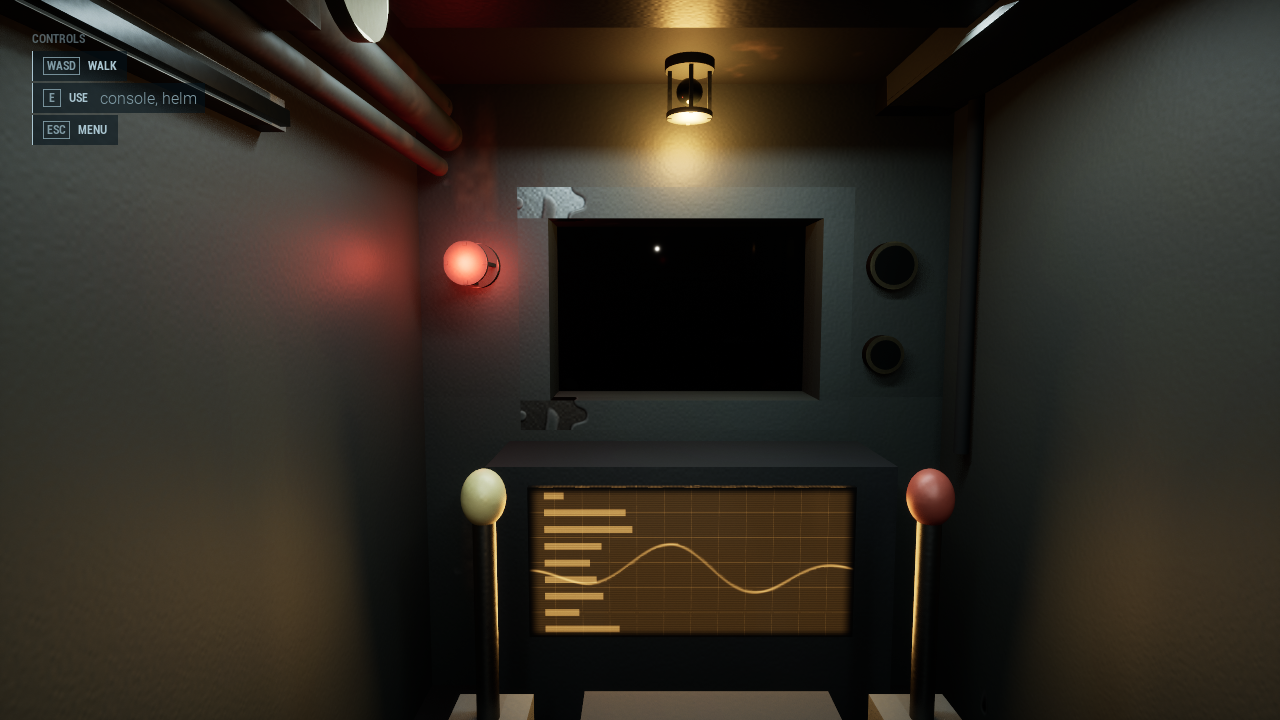
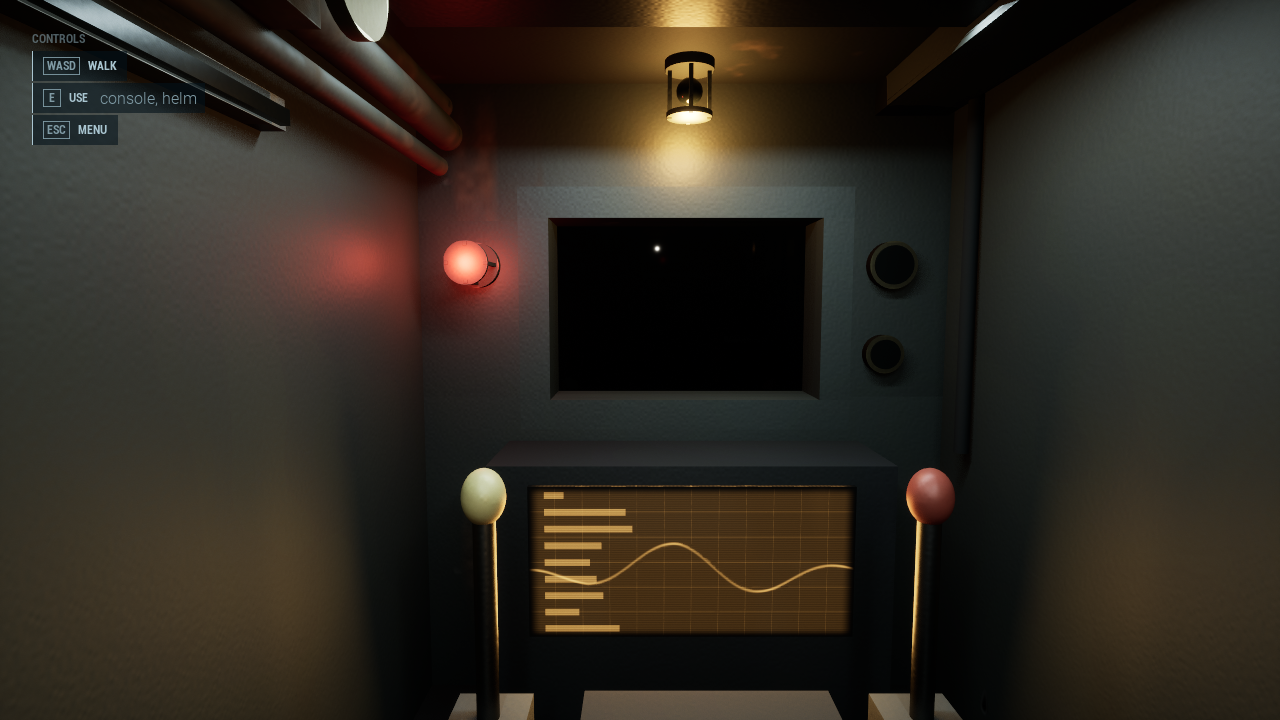
BT-01 inside: no torn patches on the porthole, spawn on the deck, solid lockers, a readable plan
- The two grey-white torn patches at the porthole panel's port corners were bare-steel chips of
  M_WornSteel on the window bezel (wear 0.45 at a chip scale of about 55 cm). The bezel now has
  the machine's wear (0.15); the start and console-helm frames show a clean frame.
- Spawn on the deck: the start and the enter stand put the capsule at Sub.InsideStandHeightM
  (0.82 m = half height plus the walker's 1.9-2.4 cm floor gap) instead of 12 cm over the deck.
- The room's dressing blocks walkers: its instanced meshes are query-only, block Pawn and ignore
  every other channel, so traces, the camera and the sonar are unchanged. New test
  Deep.World.SubRoomStand: no drop at the start, and a walker stops at a locker's face.
- Plan view: with the roof off (Deep.Room.Roof 0) the room's exposure volume and its look
  (ADeepSubRoom::IsInRoomLook, used by the environment for fog and snow) reach
  Sub.InsidePlanViewHeightM (5 m) over the deck, so the frame from above reads at the room's
  fixed exposure.

Frames re-taken: devlog/media/2026-11-17-inside-{start,console-helm,plan}.png.

diff --git a/deep/Source/Deep/Private/Tests/DeepReturnTests.cpp b/deep/Source/Deep/Private/Tests/DeepReturnTests.cpp
@@ -649,4 +649,65 @@ bool FDeepSubRoomLayoutTest::RunTest(const FString& Parameters)
 	return true;
 }
 
+IMPLEMENT_SIMPLE_AUTOMATION_TEST(FDeepSubRoomStandTest, "Deep.World.SubRoomStand", DEEP_RETURN_TEST_FLAGS)
+bool FDeepSubRoomStandTest::RunTest(const FString& Parameters)
+{
+	using namespace DeepReturnTest;
+	// The start puts the diver on the deck, not over it (no drop on spawn), and a walker pushing into a locker stops
+	// at its face: the dressing is solid for walkers.
+	const FDeepSubTuning& T = UDeepTuningSettings::Get().Sub;
+	const double StandCm = T.InsideStandHeightM * UDeepRules::CmPerM - GetDefault<ADeepDiver>()->GetCapsuleComponent()->GetScaledCapsuleHalfHeight();
+	TestTrue(FString::Printf(TEXT("The stand height leaves the walker's floor gap (%.1f cm, the engine keeps %.1f-%.1f)"), StandCm,
+		UCharacterMovementComponent::MIN_FLOOR_DIST, UCharacterMovementComponent::MAX_FLOOR_DIST),
+		StandCm >= UCharacterMovementComponent::MIN_FLOOR_DIST && StandCm <= UCharacterMovementComponent::MAX_FLOOR_DIST);
+
+	FReturnWorld W;
+	UTEST_TRUE(TEXT("World, sub, diver, run"), W.Valid());
+	UTEST_EQUAL(TEXT("Aboard at the start"), W.Run->GetState(), EDeepRunState::Aboard);
+	ADeepSubRoom* Room = DeepArena::EnsureRoom(W.World);
+	UTEST_NOT_NULL(TEXT("Room"), Room);
+	AAIController* Brain = W.World->SpawnActor<AAIController>();
+	UTEST_NOT_NULL(TEXT("Controller"), Brain);
+	Brain->Possess(W.Diver);
+	UCharacterMovementComponent* Movement = W.Diver->GetCharacterMovement();
+	constexpr float Dt = 1.f / 30.f;
+	auto Step = [&](float Seconds)
+	{
+		for (float S = 0.f; S < Seconds; S += Dt)
+		{
+			W.Diver->Tick(Dt);
+			Movement->TickComponent(Dt, LEVELTICK_All, &Movement->PrimaryComponentTick);
+			W.Run->StepRun(Dt);
+		}
+	};
+
+	const double StartZ = W.Diver->GetActorLocation().Z;
+	Step(0.5f);
+	const double Drop = StartZ - W.Diver->GetActorLocation().Z;
+	TestTrue(FString::Printf(TEXT("Stood still at the start: moved %.2f cm down (at most 1)"), Drop), FMath::Abs(Drop) <= 1.0);
+	TestTrue(TEXT("Walking on the deck"), Movement->IsMovingOnGround());
+
+	// The starboard locker on the aft wall (World/DeepRoomDress): its body is the tall cube there.
+	const FBox In = DeepRoomLayout::Inside(T);
+	const TArray<FDeepRoomPiece> Pieces = DeepRoomDress::Pieces(T);
+	const FDeepRoomPiece* Locker = Pieces.FindByPredicate([&](const FDeepRoomPiece& P)
+	{
+		return P.Size.Z >= 150.0 && P.Centre.X < In.Min.X + 30.0 && P.Centre.Y > 40.0;
+	});
+	UTEST_NOT_NULL(TEXT("A locker on the aft wall"), Locker);
+	const double FaceX = DeepRoomDress::PieceBox(*Locker).Max.X;
+	const double WalkerRadius = W.Diver->GetCapsuleComponent()->GetScaledCapsuleRadius();
+	const FVector From(FaceX + WalkerRadius + 60.0, Locker->Centre.Y, DeepRoomLayout::DeckTopCm(T) + T.InsideStandHeightM * UDeepRules::CmPerM);
+	W.Diver->TeleportDiver(Room->GetActorTransform().TransformPosition(From));
+	Brain->SetControlRotation(Room->GetActorTransform().TransformRotation(FRotator(0.f, 180.f, 0.f).Quaternion()).Rotator());
+	W.Diver->SetMoveInput(FVector2D(0.f, 1.f));
+	Step(1.5f);
+	W.Diver->SetMoveInput(FVector2D::ZeroVector);
+	const FVector At = Room->GetActorTransform().InverseTransformPosition(W.Diver->GetActorLocation());
+	TestTrue(FString::Printf(TEXT("Walked from x %.0f into the locker (face at x %.0f): stopped at x %.1f, at most 1 cm into it"), From.X, FaceX, At.X),
+		At.X >= FaceX + WalkerRadius - 1.0);
+	TestTrue(FString::Printf(TEXT("And walked up to it (stopped at x %.1f)"), At.X), At.X <= From.X - 30.0);
+	return true;
+}
+
 #endif

diff --git a/deep/Source/Deep/World/DeepSubRoom.cpp b/deep/Source/Deep/World/DeepSubRoom.cpp
@@ -308,8 +308,7 @@ void ADeepSubRoom::LayOut()
 		Place(WindowBezel[3], FVector(BezelX, PortHalfW + BezelW * 0.5, PortZ), FVector(8.0, BezelW, 2.0 * PortHalfH));
 	}
 
-	RoomVolume->SetRelativeLocation(FVector(MidX, 0.0, 0.0));
-	RoomVolume->SetBoxExtent(FVector(Len * 0.5, W, H * 0.5));
+	FitRoomVolume(Ceil);
 	RoomLight->SetRelativeLocation(FVector(60.0, 0.0, Ceil - 25.0));
 	PortholeLight->SetRelativeLocation(FVector(Fore + Th + BackdropOutCm * 0.5, 0.0, PortZ));
 }
@@ -351,7 +350,9 @@ void ADeepSubRoom::ApplyLook()
 	SubScreen(ConsoleScreen, Look.ScreenGlow);
 	SubScreen(HelmScreen, Look.ScreenGlow);
 	FSubSteel Bezel = P.Wall;
-	Bezel.Wear = 0.45f;
+	// Only the machine's light wear: at the wall's chip scale (about 55 cm) a heavier wear tore bare grey-white
+	// blotches into the porthole frame's corners.
+	Bezel.Wear = P.Machine.Wear;
 	for (UStaticMeshComponent* Shape : WindowBezel)
 	{
 		SubSteel(Shape, Bezel);
@@ -492,7 +493,7 @@ FTransform ADeepSubRoom::GetRoomStartTransform() const
 {
 	const FDeepSubTuning& T = UDeepTuningSettings::Get().Sub;
 	const FVector2D At = T.RoomStartM * UDeepRules::CmPerM;
-	const FVector Start = Local(At.X, At.Y, DeepRoomLayout::DeckTopCm(T) + 92.0);
+	const FVector Start = Local(At.X, At.Y, DeepRoomLayout::DeckTopCm(T) + T.InsideStandHeightM * UDeepRules::CmPerM);
 	return FTransform(FRotator(0.f, GetActorRotation().Yaw, 0.f), Start);
 }
 
@@ -500,7 +501,7 @@ FVector ADeepSubRoom::GetEnterStandLocation() const
 {
 	const FDeepSubTuning& T = UDeepTuningSettings::Get().Sub;
 	const FVector2D At = T.EnterStandM * UDeepRules::CmPerM;
-	return Local(At.X, At.Y, DeepRoomLayout::DeckTopCm(T) + 92.0);
+	return Local(At.X, At.Y, DeepRoomLayout::DeckTopCm(T) + T.InsideStandHeightM * UDeepRules::CmPerM);
 }
 
 FVector ADeepSubRoom::GetHatchLocation() const
@@ -531,6 +532,13 @@ bool ADeepSubRoom::IsInRoom(const FVector& WorldCm, double MarginCm) const
 	const FBox In = DeepRoomLayout::Inside(UDeepTuningSettings::Get().Sub);
 	const FVector P = GetActorTransform().InverseTransformPosition(WorldCm);
 	return P.X >= In.Min.X && P.X <= In.Max.X && P.Y >= In.Min.Y && P.Y <= In.Max.Y && P.Z >= In.Min.Z - MarginCm && P.Z <= In.Max.Z;
+}
+
+bool ADeepSubRoom::IsInRoomLook(const FVector& WorldCm, double MarginCm) const
+{
+	const FBox In = DeepRoomLayout::Inside(UDeepTuningSettings::Get().Sub);
+	const FVector P = GetActorTransform().InverseTransformPosition(WorldCm);
+	return IsInRoom(WorldCm, MarginCm) || (P.X >= In.Min.X && P.X <= In.Max.X && P.Y >= In.Min.Y && P.Y <= In.Max.Y && P.Z >= In.Max.Z && P.Z <= LookTopCm);
 }
 
 bool ADeepSubRoom::IsWithinUseRange(const FVector& WorldCm, const FVector& PointCm) const
@@ -568,4 +576,15 @@ void ADeepSubRoom::SetRoofVisible(bool bVisible)
 	{
 		Shape->SetVisibility(bVisible);
 	}
+	// Roof off, the room's own exposure reaches up to the plan view, so a look down from above reads as the room does.
+	const FDeepSubTuning& T = UDeepTuningSettings::Get().Sub;
+	FitRoomVolume(bVisible ? DeepRoomLayout::Inside(T).Max.Z : DeepRoomLayout::DeckTopCm(T) + T.InsidePlanViewHeightM * UDeepRules::CmPerM);
+}
+
+void ADeepSubRoom::FitRoomVolume(double TopCm)
+{
+	const FBox In = DeepRoomLayout::Inside(UDeepTuningSettings::Get().Sub);
+	LookTopCm = TopCm;
+	RoomVolume->SetRelativeLocation(FVector(In.GetCenter().X, 0.0, (In.Min.Z + TopCm) * 0.5));
+	RoomVolume->SetBoxExtent(FVector(In.GetExtent().X, In.Max.Y, (TopCm - In.Min.Z) * 0.5));
 }

diff --git a/deep/Source/Deep/World/DeepSubRoom.h b/deep/Source/Deep/World/DeepSubRoom.h
@@ -57,6 +57,9 @@ public:
 	/** Inside the room's box (world cm), above the deck's top minus Margin. */
 	bool IsInRoom(const FVector& WorldCm, double MarginCm = 0.0) const;
 
+	/** Whether a view here gets the room's look (its exposure, no water): inside, or with the roof off up to the plan view. */
+	bool IsInRoomLook(const FVector& WorldCm, double MarginCm = 0.0) const;
+
 	/** Horizontal distance to a deck point is within the use range. */
 	bool IsWithinUseRange(const FVector& WorldCm, const FVector& PointCm) const;
 
@@ -79,6 +82,8 @@ protected:
 
 	/** Places and sizes every shape from the tuning. */
 	void LayOut();
+	/** Fits the room's exposure volume to the inside, up to this height (room-local cm): the ceiling, or the plan view with the roof off. */
+	void FitRoomVolume(double TopCm);
 	/** Surfaces, lights and screens (FDeepLookTuning, Look|Room). */
 	void ApplyLook();
 
@@ -176,6 +181,9 @@ protected:
 	/** The room's box: inside it the room keeps its own exposure. */
 	UPROPERTY(VisibleAnywhere, Category = "Deep")
 	TObjectPtr<UBoxComponent> RoomVolume;
+
+	/** The top of the room's look (room-local cm): the ceiling, or the plan view's height with the roof off (FitRoomVolume). */
+	double LookTopCm = 0.0;
 
 	UPROPERTY(VisibleAnywhere, Category = "Deep")
 	TObjectPtr<UPostProcessComponent> RoomGrade;

diff --git a/deep/Source/Deep/World/DeepEnvironment.cpp b/deep/Source/Deep/World/DeepEnvironment.cpp
@@ -240,7 +240,7 @@ void ADeepEnvironment::StepRoomLook(float DeltaSeconds, const FVector& ViewCm)
 {
 	const UDeepTuningSettings& Tuning = UDeepTuningSettings::Get();
 	const ADeepSubRoom* Room = DeepArena::FindRoom(GetWorld());
-	const bool bInRoom = Room && Room->IsInRoom(ViewCm, 100.0);
+	const bool bInRoom = Room && Room->IsInRoomLook(ViewCm, 100.0);
 	const float Ease = FMath::Max(0.01f, Tuning.MovingSub.RoomLookEaseSeconds);
 	Room01 = FMath::FInterpConstantTo(Room01, bInRoom ? 1.f : 0.f, FMath::Max(0.f, DeltaSeconds), 1.f / Ease);
 	const float DepthM = LookDepthM();
@@ -520,7 +520,7 @@ void ADeepEnvironment::UpdateSnow(float DeltaSeconds, const FDeepLookTuning& Loo
 	const FQuat Upright = FQuat::Identity;
 	// In the room set (far above the dive, World/DeepSubRoom) there is no water: no specks at all.
 	const ADeepSubRoom* Room = DeepArena::FindRoom(GetWorld());
-	const bool bInRoom = Room01 > 0.f || (Room && Room->IsInRoom(View, 100.0));
+	const bool bInRoom = Room01 > 0.f || (Room && Room->IsInRoomLook(View, 100.0));
 
 	for (int32 i = 0; i < SnowHome.Num(); ++i)
 	{

diff --git a/deep/Source/Deep/Sim/DeepTuningTypes.h b/deep/Source/Deep/Sim/DeepTuningTypes.h
@@ -1485,6 +1485,21 @@ struct FDeepSubTuning
 	UPROPERTY(EditAnywhere, BlueprintReadWrite, Category = "Sub|Inside")
 	float InsidePortholeZM = 1.35f;
 
+	/**
+	 * Where a diver is put aboard (the start, a respawn, back in through the airlock): the capsule centre this high over
+	 * the deck. The diver's half height (0.8 m) plus the walker's floor gap (the engine keeps 1.9-2.4 cm), so the diver
+	 * stands on the deck at once instead of dropping onto it (Deep.World.SubRoomLayout).
+	 */
+	UPROPERTY(EditAnywhere, BlueprintReadWrite, Category = "Sub|Inside")
+	float InsideStandHeightM = 0.82f;
+
+	/**
+	 * With the roof off (`Deep.Room.Roof 0`), the room's look (its fixed exposure, no water) reaches this high over the deck, so a plan
+	 * view from a diver stood on the ceiling (eye about 3.6 m over the deck) reads at the room's exposure.
+	 */
+	UPROPERTY(EditAnywhere, BlueprintReadWrite, Category = "Sub|Inside")
+	float InsidePlanViewHeightM = 5.f;
+
 	UPROPERTY(EditAnywhere, BlueprintReadWrite, Category = "Sub|Room")
 	float RoomLightIntensity = 6000.f;
 

diff --git a/deep/Source/Deep/World/DeepRoomDress.cpp b/deep/Source/Deep/World/DeepRoomDress.cpp
@@ -415,7 +415,12 @@ void DeepRoomDress::Create(AActor* Owner, USceneComponent* Parent, TArray<TObjec
 			Ism->SetupAttachment(Parent);
 			Ism->SetStaticMesh(DeepShapes::LoadMesh(MeshPaths[Mesh]));
 			Ism->SetMobility(EComponentMobility::Movable);
-			Ism->SetCollisionEnabled(ECollisionEnabled::NoCollision);
+			// Solid for walkers only: a diver walks round a locker, not into it, while traces, the camera and the
+			// sonar pass the dressing as before.
+			Ism->SetCollisionEnabled(ECollisionEnabled::QueryOnly);
+			Ism->SetCollisionObjectType(ECC_WorldStatic);
+			Ism->SetCollisionResponseToAllChannels(ECR_Ignore);
+			Ism->SetCollisionResponseToChannel(ECC_Pawn, ECR_Block);
 			Ism->SetGenerateOverlapEvents(false);
 			Ism->SetCanEverAffectNavigation(false);
 			// Small pieces stay out of distance fields; the big flat ones still cast shadows from the practicals.

diff --git a/deep/Source/Deep/ARCHITECTURE.md b/deep/Source/Deep/ARCHITECTURE.md
@@ -8,7 +8,7 @@ Folders (include from the module root, e.g. `#include "Sim/DeepRules.h"`):
 - `Story/` `UDeepEventBus` (`Broadcast(name, payload)`; names in `DeepEvent::` = `event` column of `Content/Data/CaptainLines.csv`), `UDeepCaptain` (picks a line, subtitle queue by urgency). Radio Captain (D-040, `Deep.Captain.Radio 0|1`): `DeepCaptainPacing` = pure scene (title/aboard/water/settlement) + danger (calm/tense/scared) -> which urgencies show in the water; the CSV `tone` column picks the line for the danger (Captain|Radio tuning; `Deep.Story.Captain*` tests).
 - `Monster/` the sea serpent (see `Monster/README.md`): pure rules, settings, `UDeepMonsterBrain` (spawns at stop >= 2), `ADeepSerpent` (procedural tube body on a Verlet chain the head drags, `UDeepMonsterRules::StepChain` (drag heavier across the body than along it, no stroke: plain rope) + `ChainPoint` (Catmull-Rom centreline) + `Body.Chain`, head socket, eyeshine, markings, its own glow in a bite (`Deep.Monster.Glow 0|1`); the Dragon Cave dragon as a clipped mesh head when the pack is installed, `Deep.Monster.MeshHead 0` = code head; materials in `Content/Deep/Serpent`, rebuilt by its .py files), `ADeepSerpentController` (keeps to the relic's shaft while its diver is in it: `UDeepMonsterRules::WellAimPoint`; elsewhere every aim and the path stay `CaveWallClearM` + `CaveBodyReachM` inside the cavern: `ADeepCavern::KeepClearCm`). Lane G: it hears bus events (`sonar_ping`, `harpoon_fired`, `hull_hit`) and the helm throttle (brain, `NoiseForEvent`, `HelmNoise`), answers with a call and turns to the sound; state `Taunt` (edge of the light, brush past, withdraw, `TauntPath`, never bites) before a bite; its voice (drone, clicks, calls `serpent_*` built-ins) plays spatialised at the head on every machine from `MoodState`/`CallSerial`; `Deep.Monster.Taunt [n]`, `Deep.Monster.Call [kind]`. It only hunts divers who can swim; aboard is safe.
 - `Harpoon/` one shot per dive (LMB, mapped by the component itself; water only). `UDeepHarpoonRules` pure (range, reel step, bolt step, sphere hit, repair fee, recoil `RecoilVelocityMps`/`RecoilTravelM`); `UDeepHarpoonSettings` (DEEP Harpoon); `UDeepHarpoonComponent` on the diver (server: bolt flight, latch, reel; on the sub it reels the diver up into the hatch, where the run brings it aboard; reloads on dive_start/respawn/descend; a shot shoves the diver straight back (`StepKick`: swept `SafeMoveUpdatedComponent` after the swim move, server + owning client, ends on a reel, release, aboard, death or winch; DEEP Harpoon > Recoil); `harpoon_*` events); `ADeepHarpoonBolt`; `DeepHarpoonHUD::Draw`. Sub hits raise `HullDamage` and `HullRepairsOwed` (billed once in `Bank`).
-- `World/` `ADeepSubmarine` = the hull in the water, the fixed point (D-022: box hull of cubes round a hatch over the anchor, rim, red cover when locked, `HelmCamera`; `GetHatchLocation`, `GetSolidBoundsLocal` (box of the colliding cubes = the visible hull), `IsInHatchColumn`, `SetHatchOpen`). `ADeepSubRoom` = the room as a fixed set at `Sub.RoomSetLocationM` (700 m above, not replicated, one per machine via `DeepArena::EnsureRoom`/`FindRoom`, never iterate it as a sub): its own inside fitted to BT-01's cabin (`DeepRoomLayout` = pure boxes from `Sub.Inside*` and the stations: inside, deck, round hatch, console, seat, panel, levers, porthole; the hull keeps the `Room*` box): deck with the shut round hatch and its valve wheel by the console, the helm at the bow, levers, dress, strips, a porthole; `Deep.Room.Roof 0|1` hides the ceiling for a plan view; `GetRoomStartTransform`, `GetEnterStandLocation`, `GetValveLocation`, `GetConsoleLocation`, `GetHelmLocation`, `IsInRoom`, `IsWithinUseRange`, `GetStationInReach` (E acts on the nearest station in reach; the run component and HUD ask it). `DeepSubParts.h` = shapes and paints both share, and the hull's window. `DeepHull::Parts` = the sub's outside dress (frame, foam, tanks, skids, thrusters, arm, hatch well, tether bridle; ~142 basic shapes, visual only, within 60 cm of the colliding box, `Deep.World.SubHullDress`); the trench also shows through the window to a player in the room while the sub moves (`TrenchShows`). `ADeepArenaRoot` = what everything outside hangs from. `ADeepEnvironment` = the water look: each tick blends `FDeepLookTuning::Presets` (100/300/500 m, style guide 5) by `SubDepthM` into downlight, height + volumetric fog, locked exposure and grade; `ApplyFogQuality` sets the r.VolumetricFog.* CVars once from Look (history weight 0.7 so the lamp beam does not trail); marine snow (ISM specks wrapped round the view, hung from the root so they stream past when driving); salvage glint scale; `Deep.RayTracing 0|1`. The sub adds the belly flood, bow lights, blinking markers and the hatch pool (`/Game/Deep/Look/M_HatchWater`); `SetOutsideLights` dims its outside lights by depth. `TickHelmLook`: while the helm is manned the bow lights become floods (Look|Helm), a code-built trench wall (`Trench`, `TrenchReliefM`, ledge every 10 m) slides past the helm camera by `SubDepthM`, sway scales with `GetDriveSpeedMps`, a settle on parking, and the stop's bed and salvage hide while the sub is below the loaded stop; the snow streaks by that speed in the helm view. `ADeepSubRoom::ApplyLook` dresses the room: worn steel on every cube (`DeepShapes::Steel`, `/Game/Deep/Room/M_WornSteel`, any mesh), amber screens, glass in the helm window, cool strips (two along the room, one across the nose: `Deep.Room.NoseStrip 0|1`), amber practicals, red at the hatch, and its own exposure inside `RoomVolume`. Room materials: `Content/Deep/Room/build_room_materials.py`. `ADeepAbyssFloor` = the sea bed: a procedural silt mesh round the anchor through every salvage spot's resting point (`SeabedBelowM`, pure), the relic in a sinkhole; `ADeepCavern` = rock walls and a roof round each stop (one procedural shell per stop, star-shaped round the anchor so relief only pushes rock out, 14 m roof opening over the sub for the shaft, `MakeMesh`/`SurfaceDistanceM`/`RoomM`/`KeepClearM` pure, blocks Visibility + Pawn only while shown, hides with the bed; `cave_` dressing rows hide with it); material by path (`Look.SeabedMaterial`, default `M_Silt`). Look materials are built by `Content/Deep/Look/build_look_materials.py`. `DeepArena::EnsureArena` spawns what the map lacks (sub, root, salvage ring, relic, floor, environment, dressing); `ApplySubDepth` moves the root by (SubDepthM - stop depth), loads the nearest stop's arena, opens the hatch only when parked. `ADeepDressing` = pack rock and ruin from `Content/Data/Dressing.csv` (place/scatter rows; ref bed/anchor/depth/wall; one HISM per mesh, no collision; pieces near a diver's path (hatch to each salvage spot, the shaft) are dropped unless low in the silt; re-placed when the loaded stop changes; skin `/Game/Deep/Dressing/M_DressSilt` gets each slot's pack textures via `DeepDressing::Skin`); its cook hook adds every asset the CSV and `PackAssets.csv` name. `Deep.Dressing.Sheet` (contact sheet), `Deep.Dressing.Hide` (frame-time A/B). `ADeepSalvage`: scrap shows as a pipe, a bent plate or a tank (`ScrapParts`, look only); the hidden box is the grab collider. `DeepShapes` = basic shapes + tint. `DeepRoomDress` = the sub room's dressing as a pure, tested part list (`Pieces`, `Lights`: ribs, pipes, gauges, lockers, ladder, caged lights) kept out of the helm and hatch zones, drawn as instanced meshes with no collision plus a few source lights; `ADeepSubRoom` calls `Create` in its constructor and `Skin` in `ApplyLook`; tuning `RoomDress`; tests `Deep.World.RoomDress.*`; cheat `Deep.Room.Dress 0|1`.
+- `World/` `ADeepSubmarine` = the hull in the water, the fixed point (D-022: box hull of cubes round a hatch over the anchor, rim, red cover when locked, `HelmCamera`; `GetHatchLocation`, `GetSolidBoundsLocal` (box of the colliding cubes = the visible hull), `IsInHatchColumn`, `SetHatchOpen`). `ADeepSubRoom` = the room as a fixed set at `Sub.RoomSetLocationM` (700 m above, not replicated, one per machine via `DeepArena::EnsureRoom`/`FindRoom`, never iterate it as a sub): its own inside fitted to BT-01's cabin (`DeepRoomLayout` = pure boxes from `Sub.Inside*` and the stations: inside, deck, round hatch, console, seat, panel, levers, porthole; the hull keeps the `Room*` box): deck with the shut round hatch and its valve wheel by the console, the helm at the bow, levers, dress, strips, a porthole; `Deep.Room.Roof 0|1` hides the ceiling and lifts the room's exposure for a plan view; `GetRoomStartTransform`, `GetEnterStandLocation`, `GetValveLocation`, `GetConsoleLocation`, `GetHelmLocation`, `IsInRoom`, `IsWithinUseRange`, `GetStationInReach` (E acts on the nearest station in reach; the run component and HUD ask it). `DeepSubParts.h` = shapes and paints both share, and the hull's window. `DeepHull::Parts` = the sub's outside dress (frame, foam, tanks, skids, thrusters, arm, hatch well, tether bridle; ~142 basic shapes, visual only, within 60 cm of the colliding box, `Deep.World.SubHullDress`); the trench also shows through the window to a player in the room while the sub moves (`TrenchShows`). `ADeepArenaRoot` = what everything outside hangs from. `ADeepEnvironment` = the water look: each tick blends `FDeepLookTuning::Presets` (100/300/500 m, style guide 5) by `SubDepthM` into downlight, height + volumetric fog, locked exposure and grade; `ApplyFogQuality` sets the r.VolumetricFog.* CVars once from Look (history weight 0.7 so the lamp beam does not trail); marine snow (ISM specks wrapped round the view, hung from the root so they stream past when driving); salvage glint scale; `Deep.RayTracing 0|1`. The sub adds the belly flood, bow lights, blinking markers and the hatch pool (`/Game/Deep/Look/M_HatchWater`); `SetOutsideLights` dims its outside lights by depth. `TickHelmLook`: while the helm is manned the bow lights become floods (Look|Helm), a code-built trench wall (`Trench`, `TrenchReliefM`, ledge every 10 m) slides past the helm camera by `SubDepthM`, sway scales with `GetDriveSpeedMps`, a settle on parking, and the stop's bed and salvage hide while the sub is below the loaded stop; the snow streaks by that speed in the helm view. `ADeepSubRoom::ApplyLook` dresses the room: worn steel on every cube (`DeepShapes::Steel`, `/Game/Deep/Room/M_WornSteel`, any mesh), amber screens, glass in the helm window, cool strips (two along the room, one across the nose: `Deep.Room.NoseStrip 0|1`), amber practicals, red at the hatch, and its own exposure inside `RoomVolume`. Room materials: `Content/Deep/Room/build_room_materials.py`. `ADeepAbyssFloor` = the sea bed: a procedural silt mesh round the anchor through every salvage spot's resting point (`SeabedBelowM`, pure), the relic in a sinkhole; `ADeepCavern` = rock walls and a roof round each stop (one procedural shell per stop, star-shaped round the anchor so relief only pushes rock out, 14 m roof opening over the sub for the shaft, `MakeMesh`/`SurfaceDistanceM`/`RoomM`/`KeepClearM` pure, blocks Visibility + Pawn only while shown, hides with the bed; `cave_` dressing rows hide with it); material by path (`Look.SeabedMaterial`, default `M_Silt`). Look materials are built by `Content/Deep/Look/build_look_materials.py`. `DeepArena::EnsureArena` spawns what the map lacks (sub, root, salvage ring, relic, floor, environment, dressing); `ApplySubDepth` moves the root by (SubDepthM - stop depth), loads the nearest stop's arena, opens the hatch only when parked. `ADeepDressing` = pack rock and ruin from `Content/Data/Dressing.csv` (place/scatter rows; ref bed/anchor/depth/wall; one HISM per mesh, no collision; pieces near a diver's path (hatch to each salvage spot, the shaft) are dropped unless low in the silt; re-placed when the loaded stop changes; skin `/Game/Deep/Dressing/M_DressSilt` gets each slot's pack textures via `DeepDressing::Skin`); its cook hook adds every asset the CSV and `PackAssets.csv` name. `Deep.Dressing.Sheet` (contact sheet), `Deep.Dressing.Hide` (frame-time A/B). `ADeepSalvage`: scrap shows as a pipe, a bent plate or a tank (`ScrapParts`, look only); the hidden box is the grab collider. `DeepShapes` = basic shapes + tint. `DeepRoomDress` = the sub room's dressing as a pure, tested part list (`Pieces`, `Lights`: ribs, pipes, gauges, lockers, ladder, caged lights) kept out of the helm and hatch zones, drawn as instanced meshes that block walkers (Pawn) only, plus a few source lights; `ADeepSubRoom` calls `Create` in its constructor and `Skin` in `ApplyLook`; tuning `RoomDress`; tests `Deep.World.RoomDress.*`; cheat `Deep.Room.Dress 0|1`.
 - `Camera/` the camera feel. `DeepCameraRules` = pure (`ShakeForEvent` maps a bus event to an `FDeepShakeSpec` row of `FDeepCameraTuning::EventShakes`, `ShakeForHit` scales the hull rows by the payload's `ImpactMps` (set in `UDeepRunComponent::DentHull`), `PulseHullBox`/`IsInPulseHull`, `CanDiverPing`/`DiverPingWaitS`, `PulseBandCm`/`PulseDotSpacingCm` (mirror the shader's far scaling), `Envelope` eases every shake in and out, footage grain by depth, pulse radius, interference). `UDeepCameraSubsystem` (world, tickable) hears the bus and plays `UDeepCameraShake` (one C++ Perlin pattern, its spec set per instance) on the local `PlayerCameraManager`; skips events about remote pawns. Switches are CVars over the tuning bools: `Deep.Camera.Shake 0|1` (on), `Deep.Look.Footage 0|1` (off; the sway shake, the lens MID `M_FootageLens`, and grain/vignette/fringe added in `ADeepEnvironment::ApplyLook`). Cheat `Deep.Camera.TestShake <event>`; DEEPSTATE `camera`; logs `DEEPCAMERA`. New shake = a row in `EventShakes`.
 - Camera post-process materials live in `Content/Deep/Camera/` and are rebuilt from text by `build_camera_materials.py` (headless, in the slot). The subsystem makes MIDs and hangs them on the environment's unbound volume with `ADeepEnvironment::SetCameraBlendable(Material, Weight)`. `Deep.Sonar.Pulse 0|1` (on, D-041): on each bus `sonar_ping` (Source = the sub from `UDeepSonarComponent` at the helm, or a diver from `ADeepDiver::Ping`: V in the water, server checks `CanDiverPing`, `MulticastPing` broadcasts on every machine; DepthM = range; a diver's pulse is not cut short by the helm's; cheat `Deep.Ping`) the subsystem drives `M_SonarPulse` from the source (world position from depth; the look is `DeepCameraRules::PulseLook`: `Camera.PulseSoft` (pale, thin, short, 45 m helm range, the default) or `PulseJam` by `Deep.Sonar.Style 1|0`; `Deep.Sonar.HoldAge <s>` freezes a pulse for frames; band + lidar dots, band and dot grid widen with distance so a wall at 90 m reads; never inside the sub's box of static-mesh parts, sent each frame as `HullCentre`/`HullX/Y/Z`; the serpent gets custom depth so it shows only the band). Cheat `Deep.Camera.TestPing [rangeM]` (works with the switch off). `Deep.Look.Interference 0|1` (off): `M_FeedInterference` (tears, colour split, snow) by the nearest serpent head's distance to the camera, full in a monster-brain Bite, a burst on `hull_hit`; `DeepCameraRules::InterferenceTarget/Step`; cheat `Deep.Camera.Interference <0..1|-1>`.
 - Cave shaft (`Deep.Cave.Shaft 0|1`, tuning `Cave`): `UDeepCaveRules` pure (`CentreM` bends, `RadiusM` caverns and squeezes, never under `MinRadiusM` of the sub's box; centre 0 and `StopRadiusM` 14 m at every stop; `Contact`, `SteerVelocity`, `HitDamage`, `HullIntegrity01`, `IsBreached`, `CrossesCritical`). `ADeepShaft` (World/, one per machine, spawned by the sub, not replicated): the stretches between stops as procedural pieces of 48 rows (`M_Silt`, BlockAll for traces and pawns), placed each tick by `Follow` like the root. `ADeepGameState::SubOffsetM` (replicated) = the sub's sideways place in the passage; the root moves by minus it; `StepParkGlide` glides it to 0 when parked, and the hatch opens only there. `DeepCookKey` (World/): every procedural collision mesh (shaft pieces, bed, caverns) gets a tiny keyed convex so the editor's collision cache never hands it another mesh's rock; call `Apply` before `CreateMeshSection`. The helm HUD shows a hull bar in the shaft (`FDeepHudFrame::Hull01`, `DeepHudLayout::HullSlot`); the Captain's danger reads the hull at the helm (`FDeepCaptainDangerInputs::Hull01`). Shaft cheats live in `DeepShaft.cpp`: `Deep.Cave.Goto squeeze|cavern|<m>`, `Deep.Cave.Steer <fwd> <stbd>`, `Deep.Cave.Frame` (logs `DEEPFRAME`). The helm (D-048): `UDeepPilotRules` pure (Sim/: `StepNotch` throttle notches -2..+3, `StepBallast` a lever that stays where it is left, with a detent at neutral, `StepMotion` surge, sway, heave and yaw with inertia, `ShouldPark` at a stop, `GlideYawStep`; tuning `Pilot`). `UDeepRunComponent::StepPilot` flies the sub from the replicated levers; `ADeepGameState::SubYawDeg` (replicated) turns the arena root by minus it about the sub; the old direct path still serves the autopilot and the cheats. `UDeepHelmLevers` (World/) = the two levers beside the seat, following the lever state; the seated HUD shows THROTTLE, BALLAST and HEADING (`DeepHudLayout::HelmLevers`), and `Deep.Hud.HelmSonar 1` shows the helm sonar (off by default). Cheats `Deep.Pilot.Throttle|Rudder|Ballast|AllStop|Yaw|Run`. The rock (`Cave.bRock`): `UDeepCaveRules::WallRadiusM` = the smooth `RadiusM` plus seeded ridged noise (`RockFbm` over its own `Noise3` hash, the same on every machine) and strata ledges, scaled by `RockWeight` (calm at the stops' mouths), never under `WallFloorM`: the one shape the shaft's mesh draws, `Contact` tests (outline points every `ContactStepM`) and the sonar traces. `CentreM` drifts at most `BendMaxDriftPerM` (0.5 m per metre of depth, `DriftPerM`), with `BendRoomM` of extra width in the bends. `ADeepShaft::BuildScatter` sets Dragon Cave rocks half-buried in the walls (instanced, no collision, skinned with `M_CaveRock` from `Content/Deep/Cave`). `World/DeepCaveCheats.cpp`: `Deep.Cave.Rebuild [seed]`, `Deep.Cave.AutoRebuild 1` (the default: a changed Cave number rebuilds the rock live); tests `Deep.Sim.CaveShape.*`, `Deep.World.CaveShape.*`.
@@ -16,7 +16,7 @@ Folders (include from the module root, e.g. `#include "Sim/DeepRules.h"`):
 - `Audio/` sound. `UDeepAudioSubsystem` (world): `Content/Data/Sounds.csv` rows (event or `loop_*` state, asset, builtin, volume, pitch, loop) -> one-shot on each bus event, loops (drone in/out by depth, breath/fast, winch, serpent = threat, helm hum) faded by `DeepAudioRules::LoopTargets`; asset if it loads, else a `DeepSynth` built-in (pure PCM generators) played by `UDeepProcWave`. Logs `DEEPAUDIO {json}`; DEEPSTATE `audio`. `UDeepAudioSettings` (DEEP Audio). New event: add a row (or it is silent; `Deep.Sim.Audio.Coverage` lists the silent ones). Radio (D-040): `UDeepCaptain::Show` -> `KeyRadio(line id, hold)`: `radio_on`/`radio_off` squelch rows (group `voice`), a voice file at `VoiceRoot/<line id>` played band-passed, and the duck (`DeepAudioRules::DuckGain`, `Deep.Sim.Audio.Duck`). Music (`Deep.Music`): `StepMusic` fades `DeepAudioMusic::Beds()` by `DeepAudioRules::MusicTargets` (depth bed, tension, title, settlement; rows with no file are silent) and fires the serpent sting and win cue; breathing follows `UDeepCaptain::GatherDanger` (calm, fast, panic + heartbeat). Files: a one-shot plays one of `<asset>_01`..`_03` (`PickVariant`) at +-3% pitch (`JitterPitch`); `/Game/DeepAudio` is cooked whole, pack sounds only as Sounds.csv names them (`DeepAudioRules::PackagesToCook`, cook hook); `Deep.Sim.Audio.Files`, `Deep.Sim.Audio.AssetsResolve` (skips undelivered folders).
 - `Sonar/` the helm sonar (local to each player). `UDeepSonarRules` pure (bearing/range to the scope, sweep and ping, phosphor fade, lower slice over the bed, proximity tone); `UDeepSonarComponent` on `ADeepHUD` (`GetSonar`): while the helm is manned it traces `ECC_Visibility` round the sub's real position on two slices (its depth, `SliceBelowM` below; budget `MaxTracesPerFrame`), reads salvage and the serpent's head as blips, pings once every `PingPeriodFor(style)` (`PingDueAt` on the sonar clock: `PingPeriodS` 6 s soft, each sweep in the jam style; `sonar_ping`, sound = DeepSynth `sonar_ping`, the jam one kept as `sonar_ping_jam`; `Deep.Audio.Export <builtin> <wav>`), beeps as a wall closes (`sonar_near`), raises bus event `sonar_contact` (DepthM = range) on the serpent's first contact at each stop, and `FillHud` writes `FDeepHudSonar` for the `Sonar` panel (bottom left, `DeepHudLayout`). DEEP Tuning > Sonar. `Deep.Sonar [0|1]` (0 = the helm without it), `Deep.Sonar.Bench <s>` (DEEPSONAR bench frame_ms/sonar_ms), `Deep.Sonar.State`.
 - `Debug/` `DeepCheats.cpp`, `DeepStateReport` (`DEEPSTATE {json}`; `serpent` = state, head_cm, bite_alarm_s for scripted lamp aim), `DeepShot` (`-DeepShot=<png> -DeepShotDelay=<s> -DeepShotCmds="a;wait 2;b"`).
-- `Private/Tests/` `Deep.Sim.*`, `Deep.World.*`, `Deep.Story.*`, `Deep.Sim.Audio.*`, `Deep.World.Audio`; `DeepSubTests.cpp` = helm rules, hatch modes, helm limits, fixed sub; `DeepHudTests.cpp` = `Deep.UI.Hud.*` (modes, panels, motion); `DeepSonarTests.cpp` = `Deep.UI.Sonar.*` (rules, layout), `Deep.World.Sonar.*` (ranges, blips, sweep in a test world); `DeepEndingTests.cpp` = relic, win, restart, title-to-win by console commands; `DeepReturnTests.cpp` = winch and swim home from any side, hull collision = visible, `Deep.World.SubRoomLayout` = the room set's stations in reach, walks off the hatch, two can pass, the camera never clips. `Deep.h/.cpp` are Quinn's: leave alone.
+- `Private/Tests/` `Deep.Sim.*`, `Deep.World.*`, `Deep.Story.*`, `Deep.Sim.Audio.*`, `Deep.World.Audio`; `DeepSubTests.cpp` = helm rules, hatch modes, helm limits, fixed sub; `DeepHudTests.cpp` = `Deep.UI.Hud.*` (modes, panels, motion); `DeepSonarTests.cpp` = `Deep.UI.Sonar.*` (rules, layout), `Deep.World.Sonar.*` (ranges, blips, sweep in a test world); `DeepEndingTests.cpp` = relic, win, restart, title-to-win by console commands; `DeepReturnTests.cpp` = winch and swim home from any side, hull collision = visible, `Deep.World.SubRoomLayout` = the room set's stations in reach, walks off the hatch, two can pass, the camera never clips; `Deep.World.SubRoomStand` = spawn on the deck, a locker stops a walker. `Deep.h/.cpp` are Quinn's: leave alone.
 
 Units: names ending `M` are metres, `Cm` are Unreal units. Sub-relative layout is in metres in `FDeepSubTuning`.
 

diff --git a/deep-claude-brain/05 - Log/Lane Notes/sub-inside.md b/deep-claude-brain/05 - Log/Lane Notes/sub-inside.md
@@ -39,11 +39,16 @@ Branch `build/sub-inside`, worktree `.wt/subs`. Brief: fit the code-built room (
 - start and console-to-helm: the low corridor to the helm panel under the porthole, with the levers either side;
 - helm-aft: the console on the starboard side, the round hatch, the lockers and the ladder aft;
 - hatch: the round cover, the dogs and the red lamp post;
-- plan: `Deep.Room.Roof 0` from above. It is murky because the eye is outside the room's exposure volume.
+- plan: `Deep.Room.Roof 0` from above, nose to the right. With the roof off the room's fixed exposure reaches up to `Sub.InsidePlanViewHeightM` (5 m), so the plan reads at the room's exposure.
 
 ## Open for the look pass
 
-- The lockers and dress have no collision, so a capsule can push about 22 cm into a locker. The camera stays at least 13 cm off, so it never clips.
-- The start transform puts the capsule 12 cm above the deck, and it drops on spawn.
 - The pipe flanges overlap where the runs are close.
 - No old-versus-new frame: the old room only exists at `fd465e4`.
+
+## Follow-up (Nov 17)
+
+- The two grey-white torn patches on the porthole panel were bare-steel chips of `M_WornSteel` on the window bezel, whose wear was 0.45: at the chip scale (about 55 cm) that tore big blotches into its port corners. The bezel now has the machine's wear (0.15).
+- Spawn on the deck: the start and the enter stand put the capsule centre at `Sub.InsideStandHeightM` (0.82 m: half height plus the walker's floor gap). No drop.
+- The dress blocks walkers: its instanced meshes are query-only, Pawn blocks, every other channel ignores, so traces, the camera and the sonar pass as before. Test `Deep.World.SubRoomStand`.
+- Plan frame: with the roof off, the room's exposure volume and its look (`IsInRoomLook`: no water fog or snow) reach `Sub.InsidePlanViewHeightM` over the deck. Still open: the deck shows the same grey-white chip blotches from above (Floor wear); a look-pass item.
